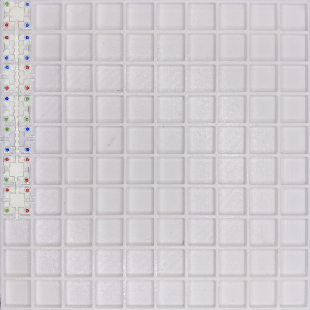
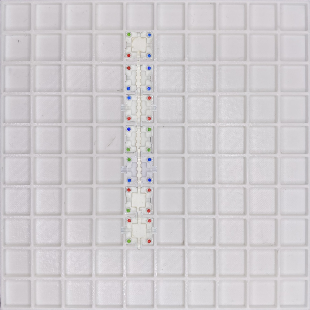
latest

diff --git a/PhaseAB/src/generators/image_generation/RuleBasedGenerator.py b/PhaseAB/src/generators/image_generation/RuleBasedGenerator.py
@@ -1,7 +1,8 @@
 from networkx import DiGraph
 from src.objs import Grid
-from src.objs import Square
 from src.objs import TestAnalyzer
+from src.phaseA import phaseA1, phaseA2, phaseA3
+from src.phaseB import phaseB
 
 import cv2 as cv
 import re
@@ -24,64 +25,54 @@ class RuleBasedGenerator:
         "results should be all different. Warn user if same"
         return results
 
-    def generate(self, image):
+    def generate(self):
         # will need to be broken into functions but the idea is:
         """
-        - using the structure graph
-        - For each target disease
-            - For each block in the structure
-                - select the correct image
-                - paint spots according to results
-                - ex: block.paint_spot(mean, std)
-                - place sample block in a randomish position,
-                    place others accordingly. Check for rotation here.
+
+        generate a bunch of test images with no spots 
+
+        then pass them through phaseA/B and paint them there
         """
 
         di_graph = self.graphs[0]
         results = self.results
 
-        for i, target in enumerate(results.keys()):
+        # meant to avoid duplicate images after augmentation (rotation, flippin, etc)
+        starting_indexes = [
+            (0, 0), (1, 0),
+            (0, 1), (1, 1),
+            (0, 2), (1, 2),
+            (0, 3), (1, 3),
+            (0, 4), (1, 4),
+        ]
 
-            grid_img = self.load_image('grid')
-            Grid_DS = Grid(grid_img)
-            img = grid_img
-            geometry = True
-            block_index = (0, 0)
-            for block_name in di_graph.nodes:
+        for block_index in starting_indexes:
 
-                # get the transparent image of the block
-                block_img = self.load_image(block_name, geometry)
+            print(f"Generating blank spots image index {block_index}...")
+            for i, target in enumerate(results.keys()):
 
-                # add unpainted block to the image
-                img = Grid_DS.add_artificial_block(block_index, img, block_img)
+                grid_img = self.load_image('grid')
+                Grid_DS = Grid(grid_img)
+                img = grid_img
+                geometry = True
+                for block_name in di_graph.nodes:
 
-                # get the square and make it a block
-                block = Grid_DS.get_square(block_index)
-                block.img = img
-                block.is_block = True
-                block.block_type = block_name
-                Grid_DS.set_square(block_index, block)
+                    # get the transparent image of the block
+                    block_img = self.load_image(block_name, geometry)
 
-                # get the rgb values of the spots in block
-                b_types = ("test", "control")
-                if block_name.startswith(b_types):
-                    block_spot_rgbs = results[target][block_name]
+                    # add unpainted block to the image
+                    img = Grid_DS.add_artificial_block(
+                        block_index, img, block_img)
 
-                    # paint the spots in the block
-                    TA = TestAnalyzer(block)
-                    TA.paint_spots(block_spot_rgbs)
+                    geometry = not geometry
+                    block_index = (block_index[0] + 1, block_index[1])
 
-                """
+                # save the image
+                cv.imwrite(f"{self.save_path}/{target}_{block_index}.png", img)
 
-                block.paint_spot(block_img, block['r'])
-                """
-                # place block in a randomish position
-                # place others accordingly. Check for rotation here.
-
-                geometry = not geometry
-                block_index = (block_index[0] + 1, block_index[1])
-
-        return image
+            # pass the image through phaseA/B and paint the spots
+            ...
+        return
 
     def load_image(self, component_name, geometry=None):
 
@@ -95,9 +86,6 @@ class RuleBasedGenerator:
         path = f"{self.components_path}/{component_name}.png"
 
         image = cv.imread(path, cv.IMREAD_UNCHANGED)
-        """ cv.imshow('image',image)
-        cv.waitKey(0)
-        cv.destroyAllWindows()"""
         return image
 
 

diff --git a/PhaseAB/src/objs/test_analyzer/strip_section.py b/PhaseAB/src/objs/test_analyzer/strip_section.py
@@ -53,9 +53,14 @@ class StripSection:
         copy = block.get_test_area_img().copy()
 
         val = self.bounds
+        spot_center = (
+            int((val[0] + val[2])/2),
+            int((val[1] + val[3])/2)
+        )
+
         spot = self.identify_spot_manually(
             copy,
-            (int((val[0] + val[2])/2), int((val[1] + val[3])/2)),
+            spot_center,
             debug=debug
         )
 
@@ -81,7 +86,7 @@ class StripSection:
             copy = cv.drawContours(copy, contours, -1, (255, 0, 0), 1)
             copy = cv.resize(copy, (200, 200))
 
-            cv.imshow('set_spots_manually(2)', copy)
+            cv.imshow('identify_spot_manually', copy)
             cv.waitKey(200)
 
         return contours[0]
@@ -89,9 +94,8 @@ class StripSection:
     def set_total_avg_rgb(self, bkg=[0, 0, 0]) -> list[int]:
         "sets the total avg rgb by adding the spot rgb avgs together"
 
-        if len(self.spots) == 0:
-            print("please add spots to section before calling set_total_avg_rgb()")
-            return None
+        assert len(self.spots) != 0, """
+        please add spots to section before calling set_total_avg_rgb()"""
 
         i = 0
         total_avg = [0, 0, 0]
@@ -186,7 +190,9 @@ class StripSection:
 
     def paint_spot(self, block_img, rgb, display=False):
         "paints the spot on the block image"
-        cv.drawContours(block_img, [self.spots[-1]["contour"]], -1, rgb, -1)
+
+        block_img = cv.drawContours(
+            block_img, [self.spots[-1]["contour"]], -1, rgb, -1)
 
         if display:
             cv.imshow('paint_spot()', block_img)

diff --git a/PhaseAB/src/objs/test_analyzer/test_analyzer.py b/PhaseAB/src/objs/test_analyzer/test_analyzer.py
@@ -188,6 +188,7 @@ class TestAnalyzer:
         """
         from numpy import random
 
+        image = self.test_square_img
         for section in self.strip_sections.values():
             if section == 'bkg':
                 continue
@@ -206,7 +207,7 @@ class TestAnalyzer:
                 rgb_spot_results['b'][i], rgb_spot_results['b'][i+1])
             rgb = (r, g, b)
 
-            return section.paint_spot(self.test_square_img, rgb, True)
+            section.paint_spot(self.test_square_img, rgb, True)
 
 
 """TODO: Add a stripSection "middleman" class to take care of assigning which spots go to which section, etc"""

diff --git a/PhaseAB/__main__.py b/PhaseAB/__main__.py
@@ -26,17 +26,21 @@ def main(path_to_imgs: str, scanned_path: str, display: bool = False) -> None:
     )
 
     # Phase A.2 - Grids
+    print(" --- Grids --- ")
     Grids = phaseA2(Images, display=display)
 
     # save test results
+    print(" --- Results --- ")
     results = phaseB(Grids)
 
     # Phase A.3 - Position Graph
+    print(" --- Graph --- ")
     graphs = phaseA3(Grids, display=display)
 
     # --- Image Generation --- #
+    print(" --- Image Generation --- ")
     RBG = RuleBasedGenerator(graphs, results)
-    RBG.generate(10)
+    RBG.generate()
 
 
 if __name__ == '__main__':
